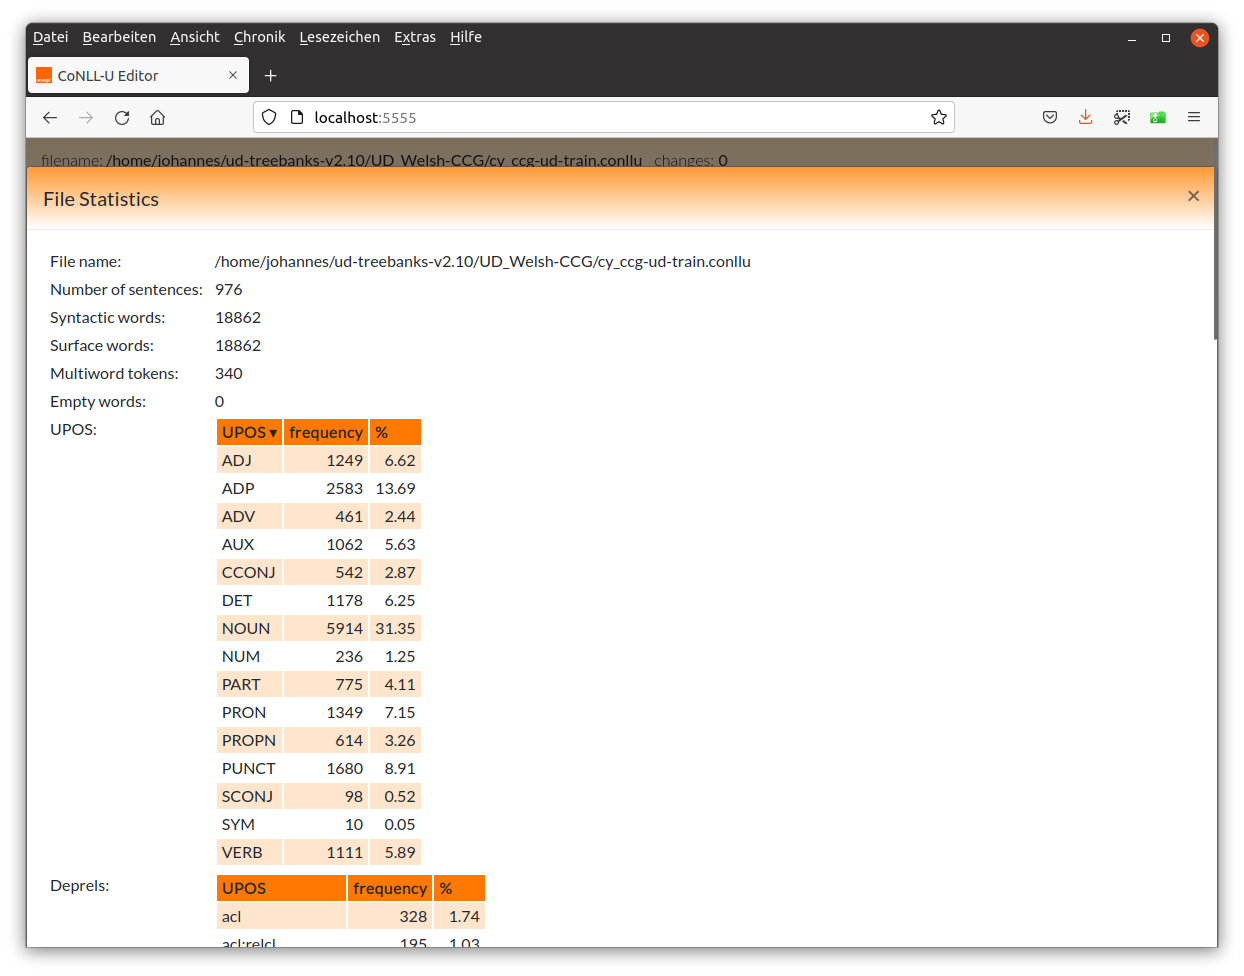
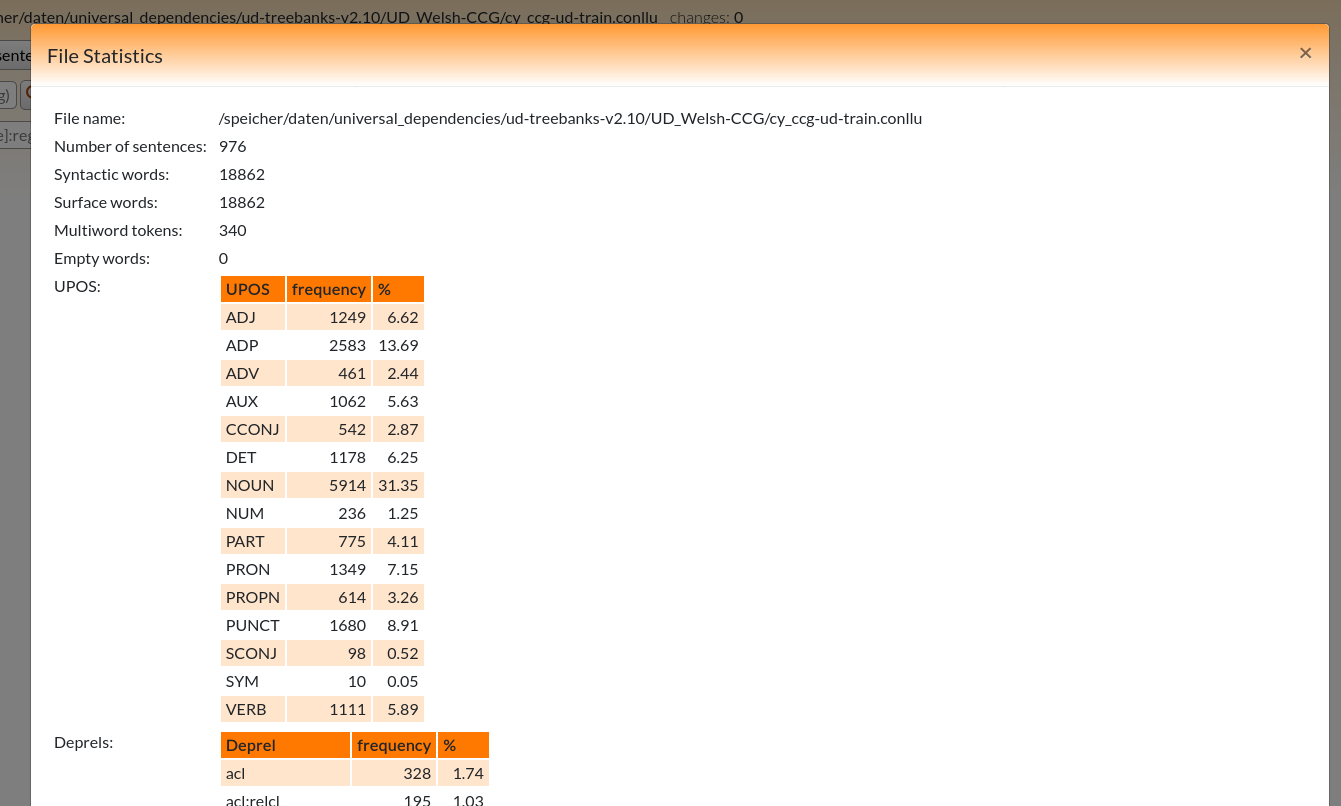
documentation

diff --git a/gui/edit.js b/gui/edit.js
@@ -171,7 +171,7 @@ function filestats() {
     $("#fileStats").modal()
 }
 
-function makeItemFreqPercent_table(appendto, data, total) {
+function makeItemFreqPercent_table(appendto, data, total, what) {
     var upostbl = document.createElement("table");
     upostbl.className = "sortable";
     upostbl.id = "UPT";
@@ -187,7 +187,7 @@ function makeItemFreqPercent_table(appendto, data, total) {
 
     var hdcell = document.createElement('th');
     headerrow.append(hdcell);
-    hdcell.innerHTML = "UPOS";
+    hdcell.innerHTML = what; //"UPOS";
 
     hdcell = document.createElement('th');
     headerrow.append(hdcell);
@@ -289,9 +289,9 @@ function getServerInfo() {
             $("#stats_mwts").append(data.stats.mwts);
             $("#stats_emptywords").append(data.stats.emptywords);
 
-            makeItemFreqPercent_table($("#stats_upos"), data.stats.UPOSs, data.stats.syntactic_words);
+            makeItemFreqPercent_table($("#stats_upos"), data.stats.UPOSs, data.stats.syntactic_words, "UPOS");
 
-            makeItemFreqPercent_table($("#stats_deprel"), data.stats.Deprels, data.stats.syntactic_words);
+            makeItemFreqPercent_table($("#stats_deprel"), data.stats.Deprels, data.stats.syntactic_words, "Deprel");
 
             var fvustbl = document.createElement("table");
             fvustbl.className = "sortable";

diff --git a/README.md b/README.md
@@ -136,7 +136,7 @@ as described below.
 ./gui/lib/jquery-ui-1.12.1/jquery-ui.min.js
 ```
 
-### Update
+### Update ConlluEditor
 
 to get bug corrections/new features, run
 
@@ -256,6 +256,9 @@ Clicking twice on a word deletes its eventual dependency relation and makes it r
 To edit form, lemma etc. CTRL-click or double click on the word. For more help use the `Help` button.
 To delete a word, click ont it and hit the `delete` key.
 
+
+## Display modes
+
 The sentence is shown as a dependency tree or as a flat graph (“dependency hedge”), morphological features can be shown or hidden with the `features` button,
 information of the MISC column can be shown with the `misc` button.
 multiword tokens (having `n-m` ids) are marked by a grey line spanning the multiword expression.
@@ -277,6 +280,9 @@ The table view is still *experimental*, all green fields can be edited:
 
 ![Edit screen (flat graph)](doc/table.png)
 
+
+## Editing words and dependency relations
+
 Word editing window (CTRL-click on the word). If UPOS/XPOS/deprels are given to the server,
 autocompleting is proposed
 
@@ -290,6 +296,8 @@ For languages which are written from the right to the left like Arabic or Hebrew
 
 ![Edit screen (Arabic)](doc/tree_R2L.png)
 
+## Empty Nodes
+
 Empty nodes (having `n.1` ids) are shown in a dashed box:
 
 ![Empty nodes](doc/tree_emptynode.png)
@@ -300,14 +308,10 @@ if the button `show basic in enhanced` is active, all enhanced dependency relati
 
 ![Empty nodes](doc/graph_emptynode.png)
 
-see section [Enhanced Dependencies](#enhanced-dependencies) for more information
+See section [Enhanced Dependencies](#enhanced-dependencies) for more information
 
-The buttons `CoNLL-U`, `LaTeX` and `SD-parse` open a window which contains the current sentence in the corresponding format.
-LaTeX output includes MWE units as well as enhanced dependencies. The `download` downloads the current image as a svg-file.
-A click on the filename on the top of the screens opens a windows with some file
-statistics:
 
-![Empty nodes](doc/stats.png)
+## Split or merge adjacent words (editing tokenisation)
 
 In order to split a word or join two (adjacent) words, use the `modify` button: the command `split <wordid>` inserts a new
 word to the right of `<wordid>`. This new word can then be edit, with a CTRL-click.
@@ -321,7 +325,7 @@ In order to create a multiword token, use the `compose <wordid> <length>`
 command. Click on the multiword token bar (at the bottom of the dependency
 tree/graph to open a dialogue which allows to edit or delete the token (i.e. the `n-m` line).
 
-### Commands to be used with `modify` button:
+## Commands to be used with `modify` button:
 
 * `split id [splitpos]` 	split a word in two (it will be copied to a new node and attached to the same head). If `splitpos` is given, the characters of Form and Lemma left of splitpos will remain in the original word, the rest will be the new word
 * `join id` 	merge word with id with the following. If the merged word overlap in any way with a multiword token (MWT), the existing MWT will be deleted
@@ -334,7 +338,17 @@ tree/graph to open a dialogue which allows to edit or delete the token (i.e. the
 * `emptyinsert id form [lemma [upos [xpos]]]` 	add a new empty word after word with `id`. The new empty word gets the id `id.1`, if it is the first empty word at thihs position. If there is already an empty word, the new one will have the id `id.2` etc.
 * `emptydelete id.subid` 	delete empty word with id `id.subid`.
 
-## Searching
+
+## Show CoNLL-U, LaTeX and SD-parse format and file statistics
+
+The buttons `CoNLL-U`, `LaTeX` and `SD-parse` open a window which contains the current sentence in the corresponding format.
+LaTeX output includes MWE units as well as enhanced dependencies. The `download` downloads the current image as a svg-file.
+A click on the filename on the top of the screens opens a windows with some file
+statistics:
+
+![Empty nodes](doc/stats.png)
+
+# Searching
 
 The search fields at the top of the screen can be used to search for forms, lemmas, UPOS, XPOS, deprels (or sequences of these),
 comments and sentences ids.
@@ -360,7 +374,7 @@ Other search modes can be chosen by clicking on the `toggle search modes` button
 * matching subtrees
 * no search (to have less headers on top of the GUI)
 
-### Complex search and search and replace
+## Complex search and search and replace
 
 This opens a search and search-and-display field. The search fields provides a simple language to find
 sentences with one or several nodes (see [Mass Editing](doc/mass_editing.md))
@@ -390,7 +404,7 @@ In order to undo this replacement, click the undo button (
 <img src="gui/img/undo.svg" alt="undo" width="15"/>), to continue
 replacing, click `search & replace` again
 
-### Matching subtrees
+## Matching subtrees
 
 This mode allows you to input a tree (using `_` as wildcards and regular expressions).
 Clicking the loop symbol searches for a sentence which match the subtree. The subtree must be a valid Conllu(plus) sentence with
@@ -459,7 +473,7 @@ contains (as a first line):
 
 ![Import subtree with selected columns](doc/importsubtree-columnsdef.png)
 
-## Mass Editing
+# Mass Editing
 
 A simple languages to modify tokens if a (complex condition is met)
 see [Mass Editing](doc/mass_editing.md)
@@ -537,7 +551,9 @@ No semantic/plausibility check is performed. E.g.
 `bin/conlluconvert.sh <inputfile>  FORM,DEPREL,HEAD`
 will happily delete the `ID` column from the output file, so the `HEAD` column does not make much sense anymore.
 
-## Shortcuts
+
+# Shortcuts
+
 ConlluEdit uses a file [gui/shortcuts.json](gui/hortcuts.json) which defines shortcuts to accelerate editing:
 These single letter keys change the UPOS/XPOS/deplabel/feature of
 the active word to the defined value. To activate a word, click once on the word.
@@ -590,6 +606,7 @@ There is a list of predefined shortcuts which cannot be altered:
 * `&` followed by two digits. Shift the syntax tree so that the token with the given ID is centered in the visible part of the tree.
 
 # Multiuser/save/git
+
 The ConlluEditor can be used by multiple annotators at the time, provided that **no sentence is edited by more than one person at a time**.
 To be on the safe side, start a server for every annotator on a different port/machine.
 After each modification the edited file is saved:
@@ -597,6 +614,7 @@ After each modification the edited file is saved:
 * if not, it is saved under a different filename (adding `.2`) in the same directory, the original file is not modified.
 
 # Validation
+
 The ConlluEditor is able to load run a validation script on the current sentence. The programme and its arguments
 must be configured in a text file
 ```
